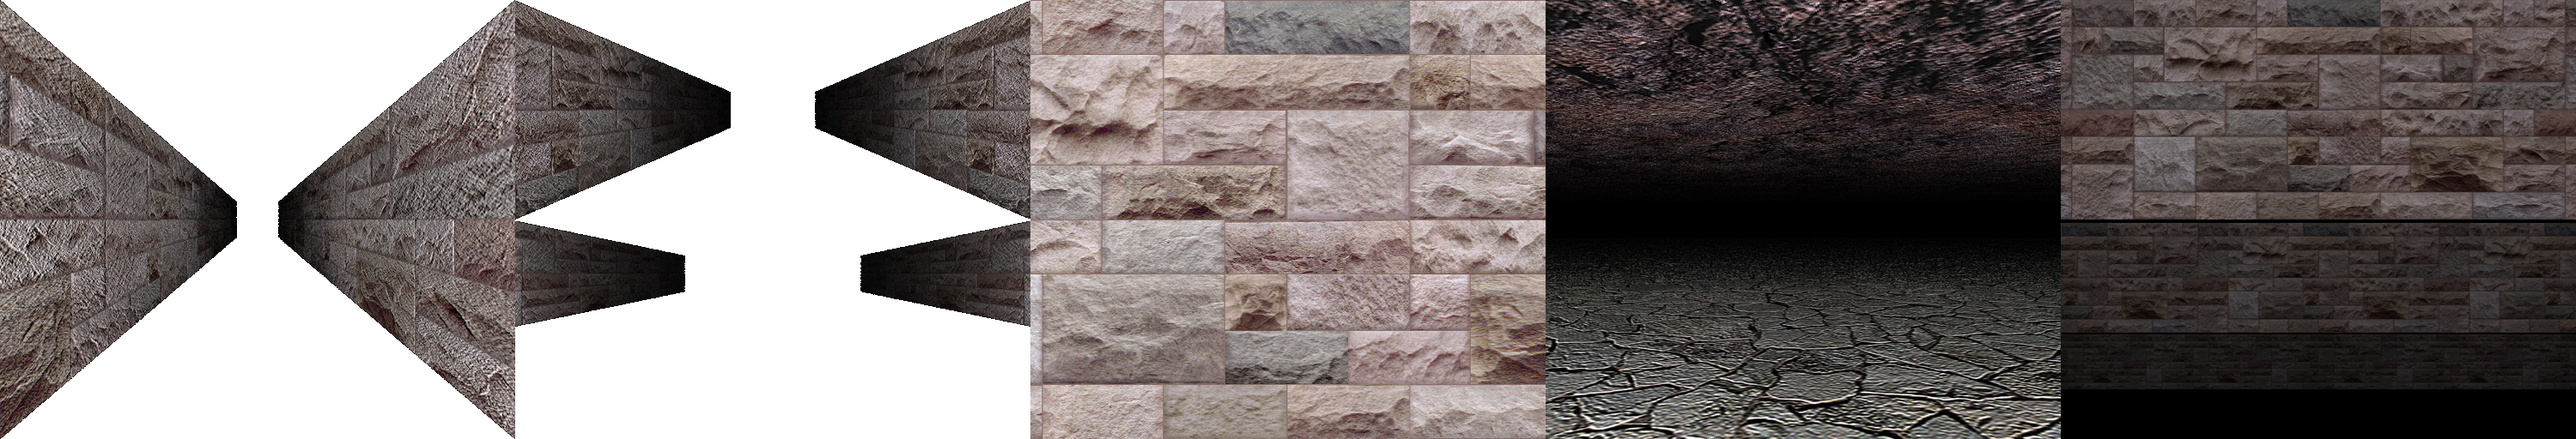
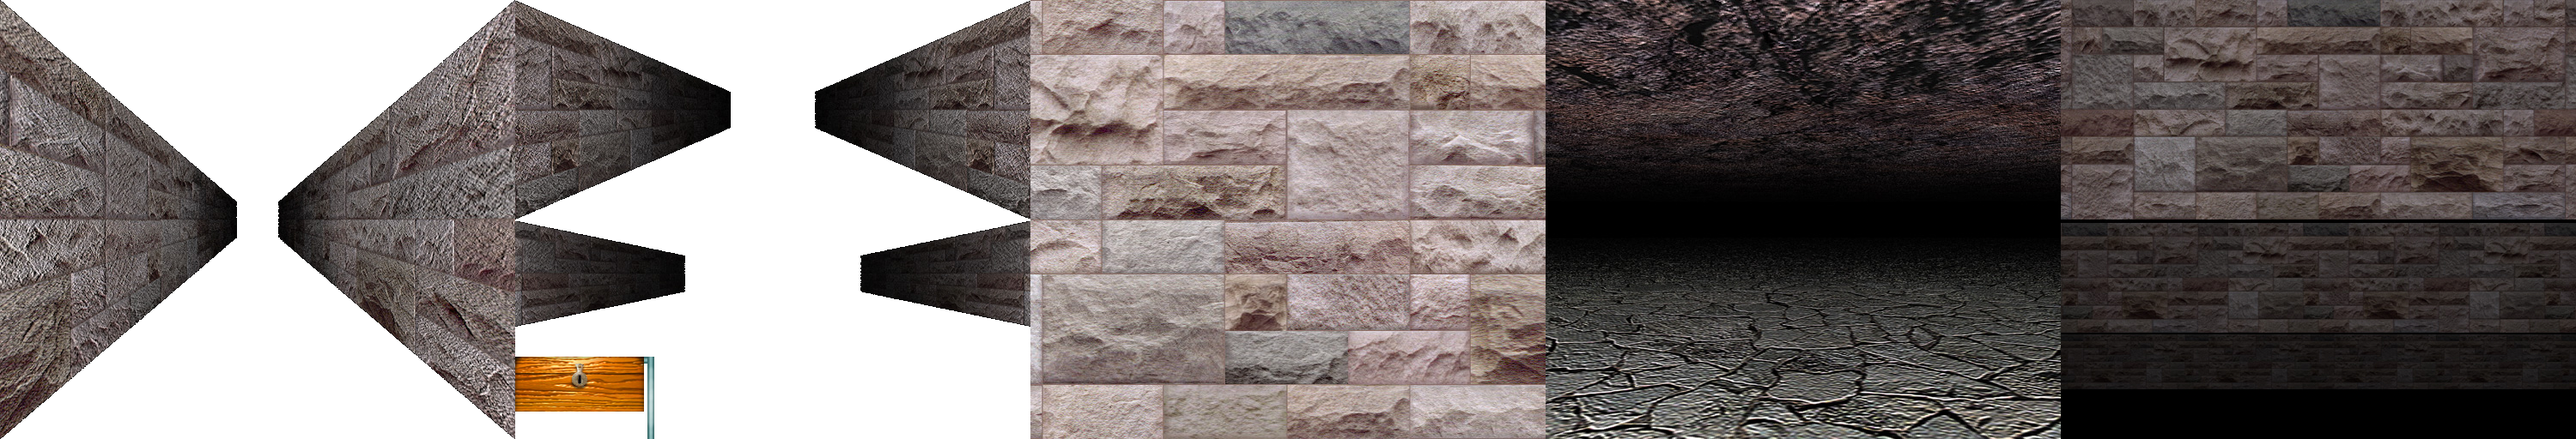
Basic dungeon rendering

Changed region(s): [[0.186, 0.8125, 0.279, 0.9375]]

diff --git a/SDL3Test/UltimaDungeon.cpp b/SDL3Test/UltimaDungeon.cpp
@@ -1,9 +1,11 @@
+#include <SDL_image.h>
 #include "UltimaDungeon.h"
 #include "UltimaGraphics.h"
 #include "U3Misc.h"
 #include "U3Resources.h"
-#include <SDL_image.h>
+#include "U3ScrollArea.h"
 
+extern U3ScrollArea m_scrollArea;
 extern U3Graphics m_graphics;
 extern U3Misc m_misc;
 extern U3Resources m_resources;
@@ -35,6 +37,15 @@ UltimaDungeon::UltimaDungeon() :
 	m_forceRedraw(true),
 	m_texDungeonPort(nullptr)
 {
+	m_HeadX[0] = 0;
+	m_HeadX[1] = 1;
+	m_HeadX[2] = 0;
+	m_HeadX[3] = -1;
+
+	m_HeadY[0] = -1;
+	m_HeadY[1] = 0;
+	m_HeadY[2] = 1;
+	m_HeadY[3] = 0;
 }
 
 UltimaDungeon::~UltimaDungeon()
@@ -63,6 +74,38 @@ UltimaDungeon::~UltimaDungeon()
 	{
 		SDL_DestroyTexture(m_texShrine);
 	}
+}
+
+bool UltimaDungeon::HandleDefaultKeyPress(SDL_Keycode key)
+{
+	if (key >= SDLK_A && key <= SDLK_Z)
+	{
+		//LetterCommand(key);
+	}
+	else
+	{
+		switch (key)
+		{
+		case SDLK_UP:
+			Forward();
+			break;
+		case SDLK_DOWN:
+			Retreat();
+			break;
+		case SDLK_LEFT:
+			Left();
+			break;
+		case SDLK_RIGHT:
+			Right();
+			break;
+		case SDLK_SPACE:
+			Pass();
+			break;
+		default:
+			break;
+		}
+	}
+	return true;
 }
 
 void UltimaDungeon::loadGraphics()
@@ -433,11 +476,11 @@ short UltimaDungeon::DungeonBlock(short location)
 	{
 		if ((tile & 0x10) != 0)
 		{
-			//DrawLadder(location, 0);
+			DrawLadder(location, 0);
 		}
 		if ((tile & 0x20) != 0)
 		{
-			//DrawLadder(location, 1);
+			DrawLadder(location, 1);
 		}
 		if ((tile & 0x40) != 0)
 		{
@@ -485,8 +528,77 @@ short UltimaDungeon::DrawWall(short location) // $19B4
 	FromRect.h -= FromRect.y;
 
 	SDL_RenderTexture(m_resources.m_renderer, m_texDungeonShapes, &FromRect, &ToRect);
-	//CopyBits(LWPortCopyBits(nDngShapes), LWPortCopyBits(dungPort), &FromRect, &ToRect, srcCopy, nil);
 	return location;
+}
+
+void UltimaDungeon::DrawLadder(short location, short direction) // $1AAB
+{
+	SDL_FRect FromRect;
+	SDL_FRect ToRect;
+
+	short lleft, ltop, lright, lbottom, swap, side;
+	short width, height, base, rung, half, shape;
+	if (location > 20)
+	{
+		return;
+	}
+	lleft = (chL[location] * 2);
+	ltop = (chT[location] * 2);
+	lright = (chR[location] * 2);
+	lbottom = (chB[location] * 2);
+	ltop = (short)(lbottom - ((lbottom - ltop) * 1.5f));
+	base = lbottom;
+	if (direction == 0)
+	{
+		swap = 512 - lbottom;
+		lbottom = 512 - ltop;
+		ltop = swap;
+		base = ltop;
+	}
+	side = chSide[location];
+	height = (short)(((lbottom - ltop) * 1.25f) - (lbottom - ltop)) / 2;
+	width = (lbottom - ltop) / 12;
+	rung = (((lbottom - ltop) / 2) + ltop) - (width / 2);
+	half = lleft + ((lright - lleft) / 2);
+	if (side == 1)
+	{
+		half = lright;
+	}
+	if (side == 2)
+	{
+		half = lleft;
+	}
+	FromRect.x = (float)(lleft - width - 2);
+	FromRect.y = (float)(base - height);
+	FromRect.w = (float)((lright + width + 2) - (lleft - width - 2));
+	FromRect.h = (float)(2 * height);
+	SDL_SetRenderDrawColor(m_resources.m_renderer, 0, 0, 0, 255);
+	SDL_RenderFillRect(m_resources.m_renderer, &FromRect);
+
+	if (side == 0 || side == 1)
+	{
+		shape = 35;
+		m_resources.GenerateRect(&FromRect, (dngL[shape] * 2), (dngT[shape] * 2), (dngR[shape] * 2), (dngB[shape] * 2));
+		m_resources.GenerateRect(&ToRect, lleft, ltop, lleft + width, lbottom);
+		SDL_RenderTexture(m_resources.m_renderer, m_texDungeonShapes, &FromRect, &ToRect);
+		shape = 34;
+		m_resources.GenerateRect(&FromRect, (dngL[shape] * 2), (dngT[shape] * 2), (dngR[shape] * 2), (dngB[shape] * 2));
+		m_resources.GenerateRect(&ToRect, lleft, rung, half + 1, rung + width);
+		SDL_RenderTexture(m_resources.m_renderer, m_texDungeonShapes, &FromRect, &ToRect);
+	}
+	if (side == 0 || side == 2)
+	{
+		shape = 35;
+		m_resources.GenerateRect(&FromRect, (dngL[shape] * 2), (dngT[shape] * 2), (dngR[shape] * 2), (dngB[shape] * 2));
+		m_resources.GenerateRect(&ToRect, lright - width, ltop, lright, lbottom);
+		SDL_RenderTexture(m_resources.m_renderer, m_texDungeonShapes, &FromRect, &ToRect);
+		shape = 34;
+		m_resources.GenerateRect(&FromRect, (dngL[shape] * 2), (dngT[shape] * 2), (dngR[shape] * 2), (dngB[shape] * 2));
+		m_resources.GenerateRect(&ToRect, half, rung, lright, rung + width);
+		SDL_RenderTexture(m_resources.m_renderer, m_texDungeonShapes, &FromRect, &ToRect);
+	}
+
+	SDL_SetRenderDrawColor(m_resources.m_renderer, 0, 0, 0, 0);
 }
 
 void UltimaDungeon::DrawDungeonBackGround()
@@ -523,4 +635,91 @@ void UltimaDungeon::DrawDungeon()
 
 	m_resources.adjustRect(theRect);
 	SDL_RenderTexture(m_resources.m_renderer, m_texDungeonPort, NULL, &theRect);
+}
+
+void UltimaDungeon::Forward()
+{
+	m_scrollArea.UPrintMessage(165);
+	m_misc.m_xs = m_HeadX[m_misc.m_heading] + m_misc.m_xpos & 0x0F;
+	if (m_misc.m_xs < 0)
+	{
+		m_misc.m_xs += 16;
+	}
+	m_misc.m_ys = m_HeadY[m_misc.m_heading] + m_misc.m_ypos & 0x0F;
+	if (m_misc.m_ys < 0)
+	{
+		m_misc.m_ys += 16;
+	}
+	if (GetXYDng(m_misc.m_xs, m_misc.m_ys) == 0x80)
+	{
+		m_misc.NoGo();
+		return;
+	}
+	m_misc.m_xpos = m_misc.m_xs;
+	m_misc.m_ypos = m_misc.m_ys;
+	m_forceRedraw = true;
+}
+
+void UltimaDungeon::Retreat()
+{
+	m_scrollArea.UPrintMessage(166);
+	m_misc.m_xs = m_HeadX[(m_misc.m_heading + 2) & 3] + m_misc.m_xpos & 0x0F;
+	if (m_misc.m_xs < 0)
+	{
+		m_misc.m_xs += 16;
+	}
+	m_misc.m_ys = m_HeadY[(m_misc.m_heading + 2) & 3] + m_misc.m_ypos & 0x0F;
+	if (m_misc.m_ys < 0)
+	{
+		m_misc.m_ys += 16;
+	}
+	if (GetXYDng(m_misc.m_xs, m_misc.m_ys) == 0x80)
+	{
+		m_misc.NoGo();
+		return;
+	}
+	m_misc.m_xpos = m_misc.m_xs;
+	m_misc.m_ypos = m_misc.m_ys;
+	m_forceRedraw = true;
+}
+
+void UltimaDungeon::Left()
+{
+	m_scrollArea.UPrintMessage(168);
+	m_misc.m_xs = m_misc.m_xpos;
+	m_misc.m_ys = m_misc.m_ypos;
+	if (GetXYDng(m_misc.m_xs, m_misc.m_ys) >= 0xA0)
+	{
+		m_misc.NoGo();
+		return;
+	}
+	m_misc.m_heading--;
+	if (m_misc.m_heading < 0)
+	{
+		m_misc.m_heading += 4;
+	}
+	m_forceRedraw = true;
+}
+
+void UltimaDungeon::Right()
+{
+	m_scrollArea.UPrintMessage(167);
+	m_misc.m_xs = m_misc.m_xpos;
+	m_misc.m_ys = m_misc.m_ypos;
+	if (GetXYDng(m_misc.m_xs, m_misc.m_ys) >= 0xA0)
+	{
+		m_misc.NoGo();
+		return;
+	}
+	m_misc.m_heading++;
+	if (m_misc.m_heading > 3)
+	{
+		m_misc.m_heading -= 4;
+	}
+	m_forceRedraw = true;
+}
+
+void UltimaDungeon::Pass()
+{
+	m_scrollArea.UPrintMessage(23);
 }

diff --git a/SDL3Test/UltimaGraphics.cpp b/SDL3Test/UltimaGraphics.cpp
@@ -813,4 +813,36 @@ void U3Graphics::renderDungeon(SDL_Event event, Uint64 deltaTime, bool& wasMove)
 
     m_scrollArea.render(deltaTime);
     m_resources.DrawInverses(deltaTime);
+
+    bool alertValid = m_resources.HasAlert(event);
+    if (!alertValid)
+    {
+        if (!m_staydead)
+        {
+            if (m_misc.m_inputType == InputType::Callback || m_misc.m_inputType == InputType::SleepCallback)
+            {
+                if (!m_scrollArea.isUpdating())
+                {
+                    m_misc.HandleCallback(m_misc.m_inputType == InputType::SleepCallback);
+                }
+            }
+            else
+            {
+                if (!m_scrollArea.isUpdating() && !m_resources.isInversed())
+                {
+                    wasMove = m_misc.ProcessEvent(event);
+                    if (m_queuedMode != U3GraphicsMode::None && m_scrollArea.MessageQueueEmpty())
+                    {
+                        m_curMode = m_queuedMode;
+                        m_queuedMode = U3GraphicsMode::None;
+                    }
+                }
+
+                if (m_scrollArea.isPrompt())
+                {
+                    m_resources.DrawPrompt();
+                }
+            }
+        }
+    }
 }

diff --git a/SDL3Test/UltimaDungeon.h b/SDL3Test/UltimaDungeon.h
@@ -20,6 +20,7 @@ public:
 		m_forceRedraw = true;
 	}
 	unsigned char GetXYDng(short x, short y);
+	bool HandleDefaultKeyPress(SDL_Keycode key);
 
 	unsigned char m_dungeonLevel;
 private:
@@ -35,6 +36,13 @@ private:
 	void Chunk5();
 	void Chunk6();
 	void Chunk7();
+	void DrawLadder(short location, short direction);
+
+	void Forward();
+	void Retreat();
+	void Left();
+	void Right();
+	void Pass();
 
 	SDL_Texture* m_texDungeonShapes;
 	SDL_Texture* m_texFountain;
@@ -52,5 +60,7 @@ private:
 	static constexpr std::string_view SaveLoc = "Save";
 
 	bool m_forceRedraw;
+	char m_HeadX[4];
+	char m_HeadY[4];
 };
 

diff --git a/SDL3Test/U3Misc.cpp b/SDL3Test/U3Misc.cpp
@@ -1720,7 +1720,14 @@ bool U3Misc::HandleKeyPress(SDL_KeyboardEvent key)
 		HandleCallback(true);
 		break;
 	default:
-		HandleDefaultKeyPress(key.key);
+		if (m_gameMode == GameStateMode::Map)
+		{
+			HandleDefaultKeyPress(key.key);
+		}
+		else if (m_gameMode == GameStateMode::Dungeon)
+		{
+			m_dungeon.HandleDefaultKeyPress(key.key);
+		}
 		return true;
 	}
 	return false;

diff --git a/SDL3Test/U3Resources.cpp b/SDL3Test/U3Resources.cpp
@@ -3213,3 +3213,12 @@ void U3Resources::DrawInverses(Uint64 delta_time)
 		}
 	}
 }
+
+// A helper function to change Mac Rects to SDL_FRect
+void U3Resources::GenerateRect(SDL_FRect* FromRect, int left, int top, int right, int bottom)
+{
+	FromRect->x = (float)left;
+	FromRect->y = (float)top;
+	FromRect->w = (float)right - left;
+	FromRect->h = (float)bottom - top;
+}

diff --git a/SDL3Test/U3Misc.h b/SDL3Test/U3Misc.h
@@ -93,6 +93,8 @@ public:
 	void NorthEast();
 	void NorthWest();
 
+	void NoGo();
+
 	unsigned char m_Player[21][65];
 	unsigned char m_Party[64];
 
@@ -174,7 +176,6 @@ private:
 	void LetterCommand(SDL_Keycode key);
 	bool ValidTrans(char value);
 	bool ValidDir(unsigned char value);
-	void NoGo();
 	
 	void Pass();
 	

diff --git a/SDL3Test/U3Resources.h b/SDL3Test/U3Resources.h
@@ -137,6 +137,7 @@ public:
 	{
 		return m_alertReturn;
 	}
+	void GenerateRect(SDL_FRect* FromRect, int left, int top, int right, int bottom);
 
 	unsigned char m_TileArray[128];
 	SDL_Texture* m_texDisplay;
